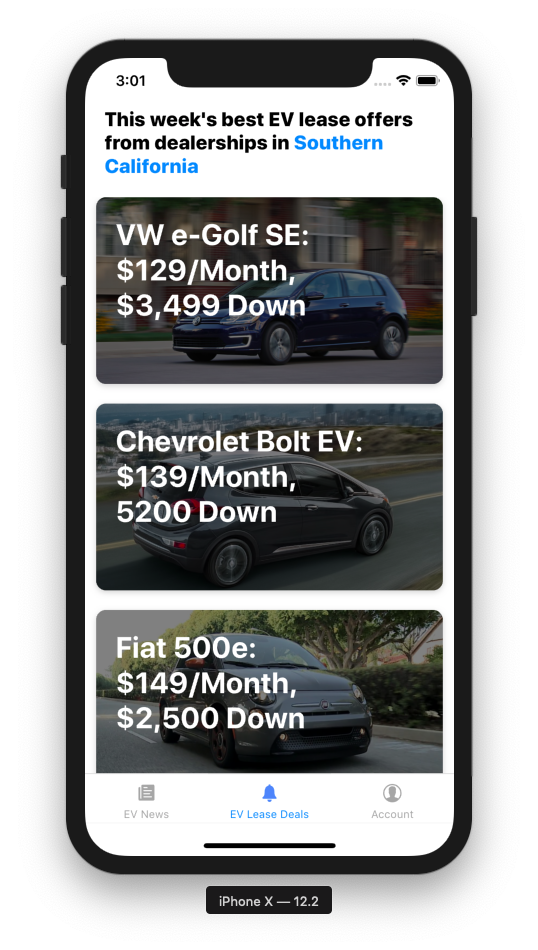
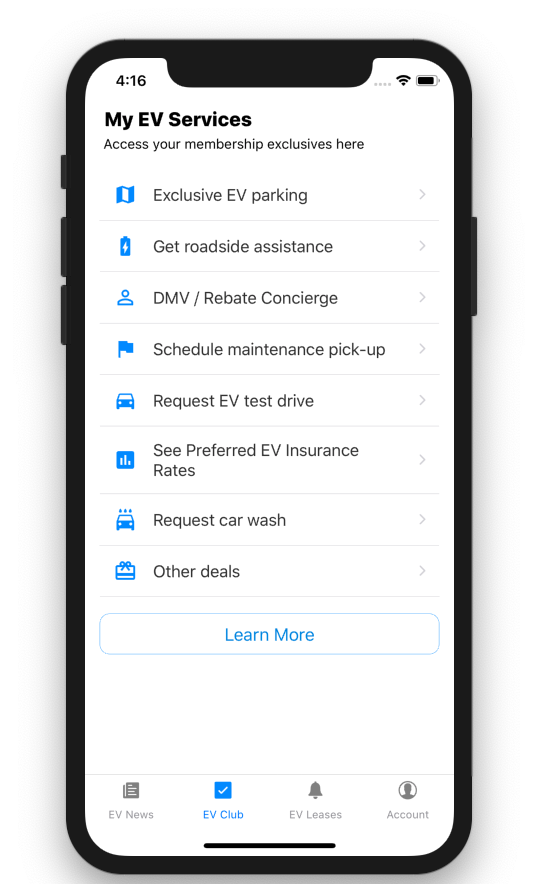
newest blog source deploy Mon May  6 16:02:17 PDT 2019

diff --git a/docs/projects/index.html b/docs/projects/index.html
@@ -8,7 +8,7 @@
 
 <meta property='og:title' content='Learnings from projects &amp; things I&#39;ve made so far. - D U N K | niko&#39;s blog'>
 <meta property='og:description' content='This is a general blog post on my various schemes so far, loosely grouped around topic. I look like this when I&rsquo;ve made something:
-Sustainability electrade app | AAA for EVs Team: * Amir (ideation, ops) * Niko (ideation, tech) Tech: * React-Native App * Backend Node/Express/Postgres * Stripe payment processing * Listing photos upload to S3 * Dynamic pricing data indexed from Autotrader, Edmunds with Puppeteer * EV News updates through APIfy.'>
+Sustainability electrade app | Premium services for Electric Cars Team: * Amir (ideation, ops) * Niko (ideation, tech) Tech: * React-Native App * Backend Node/Express/Postgres * Stripe payment processing * Listing photos upload to S3 * Dynamic pricing data indexed from Autotrader, Edmunds with Puppeteer * EV News updates through APIfy.'>
 <meta property='og:url' content='https://nikodunk.com/projects/'>
 <meta property='og:site_name' content='D U N K | niko&#39;s blog'>
 <meta property='og:type' content='article'><meta property='og:image' content='https://www.gravatar.com/avatar/195eab93fe28b360835efd4f73e778fe?s=256'><meta property='article:section' content=''><meta property='article:tag' content='Learnings'><meta property='article:tag' content='Updates'><meta property='article:published_time' content='2019-05-01T08:00:00-07:00'/><meta property='article:modified_time' content='2019-05-01T08:00:00-07:00'/><meta name='twitter:card' content='summary'><meta name='twitter:site' content='@nikodunk'><meta name='twitter:creator' content='@nikodunk'>
@@ -102,7 +102,7 @@ Sustainability electrade app | AAA for EVs Team: * Amir (ideation, ops) * Niko (
 
 <hr />
 
-<h3 id="projects-logo-sustainability2-png-electrade-app-aaa-for-evs"><img src="/projects/logo_sustainability2.png" alt="" /> electrade app | AAA for EVs</h3>
+<h3 id="projects-logo-sustainability2-png-electrade-app-premium-services-for-electric-cars"><img src="/projects/logo_sustainability2.png" alt="" /> electrade app | Premium services for Electric Cars</h3>
 
 <pre><code>Team:
 * Amir (ideation, ops)

diff --git a/docs/index.html b/docs/index.html
@@ -95,7 +95,7 @@
       <h1 class="title"><a href="https://nikodunk.com/projects/">Learnings from projects &amp; things I&#39;ve made so far.</a></h1>
       <div class="content">
         This is a general blog post on my various schemes so far, loosely grouped around topic. I look like this when I&rsquo;ve made something:
-Sustainability electrade app | AAA for EVs Team: * Amir (ideation, ops) * Niko (ideation, tech) Tech: * React-Native App * Backend Node/Express/Postgres * Stripe payment processing * Listing photos upload to S3 * Dynamic pricing data indexed from Autotrader, Edmunds with Puppeteer * EV News updates through APIfy.
+Sustainability electrade app | Premium services for Electric Cars Team: * Amir (ideation, ops) * Niko (ideation, tech) Tech: * React-Native App * Backend Node/Express/Postgres * Stripe payment processing * Listing photos upload to S3 * Dynamic pricing data indexed from Autotrader, Edmunds with Puppeteer * EV News updates through APIfy.
         
         <a class="button is-link" href="https://nikodunk.com/projects/" style="height:28px">
           Read more

diff --git a/docs/tags/learnings/index.html b/docs/tags/learnings/index.html
@@ -94,7 +94,7 @@
       <h1 class="title"><a href="https://nikodunk.com/projects/">Learnings from projects &amp; things I&#39;ve made so far.</a></h1>
       <div class="content">
         This is a general blog post on my various schemes so far, loosely grouped around topic. I look like this when I&rsquo;ve made something:
-Sustainability electrade app | AAA for EVs Team: * Amir (ideation, ops) * Niko (ideation, tech) Tech: * React-Native App * Backend Node/Express/Postgres * Stripe payment processing * Listing photos upload to S3 * Dynamic pricing data indexed from Autotrader, Edmunds with Puppeteer * EV News updates through APIfy.
+Sustainability electrade app | Premium services for Electric Cars Team: * Amir (ideation, ops) * Niko (ideation, tech) Tech: * React-Native App * Backend Node/Express/Postgres * Stripe payment processing * Listing photos upload to S3 * Dynamic pricing data indexed from Autotrader, Edmunds with Puppeteer * EV News updates through APIfy.
         
         <a class="button is-link" href="https://nikodunk.com/projects/" style="height:28px">
           Read more

diff --git a/docs/tags/updates/index.html b/docs/tags/updates/index.html
@@ -94,7 +94,7 @@
       <h1 class="title"><a href="https://nikodunk.com/projects/">Learnings from projects &amp; things I&#39;ve made so far.</a></h1>
       <div class="content">
         This is a general blog post on my various schemes so far, loosely grouped around topic. I look like this when I&rsquo;ve made something:
-Sustainability electrade app | AAA for EVs Team: * Amir (ideation, ops) * Niko (ideation, tech) Tech: * React-Native App * Backend Node/Express/Postgres * Stripe payment processing * Listing photos upload to S3 * Dynamic pricing data indexed from Autotrader, Edmunds with Puppeteer * EV News updates through APIfy.
+Sustainability electrade app | Premium services for Electric Cars Team: * Amir (ideation, ops) * Niko (ideation, tech) Tech: * React-Native App * Backend Node/Express/Postgres * Stripe payment processing * Listing photos upload to S3 * Dynamic pricing data indexed from Autotrader, Edmunds with Puppeteer * EV News updates through APIfy.
         
         <a class="button is-link" href="https://nikodunk.com/projects/" style="height:28px">
           Read more

diff --git a/drafts/startup-updates-7.md b/drafts/startup-updates-7.md
@@ -25,30 +25,36 @@ categories:
 * Made up-front reservation fee default. Clearer to test value for now.
 * Tested test-drives
 * Removed insurance
+* Added value-add club
 
 # Experiments/Hypothesis run:
-* ### Problem: Not installing app (acquisition). Attempts to solve:
-	* Paid Reddit paid on /r/electricvehicles and /r/teslamotors
-		*  **Results:** $0.45 per tap Android and $0.49 on iOS. Roughly 50% install rate from product page -> Roughly $1 per install.
 
-
-* ### Problem: Installed, not a single person even opened Stripe CC screen.
-	* Trust
+* ### Problem: Not one user opened Stripe Credit Card screen to lease car. Possible Solutions:
+	* More trustworthy seeming interace help?
 		* Clearer onboarding process. More trustworthy
 		* Polish, so app seems less sketchy
+		* Results: One stripe open, still no checkouts.
+	* Value-add to differentiate (Fair has "cancel any time" and "bundled insurance")
+		* New cofounder Amir suggested we try a value-add add-ons/Benefits on top of lease to differentiate ourselves from normal leasing lke Fair's "Cancel any time"?
+		* Results: No difference.
+	* And what if could sell unbundled from car lease, too?
+
+* ### Experiment: Maybe easier to sell value-add features separately, without the car leasing.
+	* $35 per month value-add benefits EV bundle (pivot)
+	* Add leases again later once we're the AAA of EVs. 
+	* Upside: Address _whole_ EV market, not just subset actively looking for EV lease.
+	* Upside: Less friction due to 1 month instead of 36 month commitment. $35 commitment instead of $8,000 comittment for lease.
+	* Advertise new value prop through reddit. If we can get 10 people to pay $35 in the next week we'll pivot.
+	* Results: 18 clicks for $8 -> 5 installs -> 5 people touched through to pricing -> 0 subscribers
 
 
-* ### Problem: Money.
-	* Test Concierge service (you say which car, we'll find at a price).
-	* Test Consultant service (we'll answer your EV questions and then recommend products).
-	* Change from pure EV? Potentially, the hassle-free value proposition may be more effective in a mainstream market for now?
-	* Add off-lease cars from Greenlight Auto Wholesale ?
-	* Help find parking spots with charging for those EV owners without a garage w/ Piedparker.com ?
-	* Rent an EV for a month between leases?
-
-	* With Armin: Add-ons/Benefits over lease like on Fair, but WITHOUT the car lease? For EV owners who already have a car. Benefits package. Add leases again later once we're the AAA of EVs.
-
-
+Experiment backlog:
+* Test Concierge service (you say which car, we'll find at a price).
+* Test Consultant service (we'll answer your EV questions and then recommend products).
+* Change from pure EV? Potentially, the hassle-free value proposition may be more effective in a mainstream market for now?
+* Add off-lease cars from Greenlight Auto Wholesale ?
+* Help find parking spots with charging for those EV owners without a garage w/ Piedparker.com ?
+* Rent an EV for a month between leases?
 
 ### Experiments for next 2 weeks:
 * 

diff --git a/content/projects.md b/content/projects.md
@@ -14,7 +14,7 @@ This is a general blog post on my various schemes so far, loosely grouped around
 --------------------------------------------------------------------------------------------------------------
 
 
-### ![](/projects/logo_sustainability2.png) electrade app | AAA for EVs
+### ![](/projects/logo_sustainability2.png) electrade app | Premium services for Electric Cars
 
 	Team:
 	* Amir (ideation, ops)
